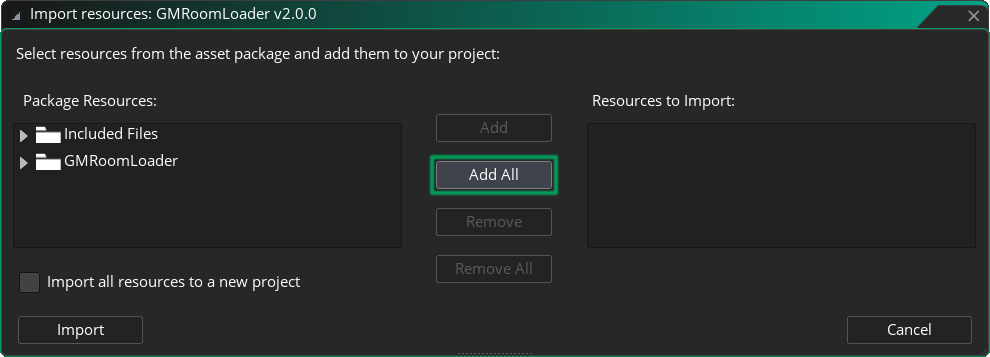
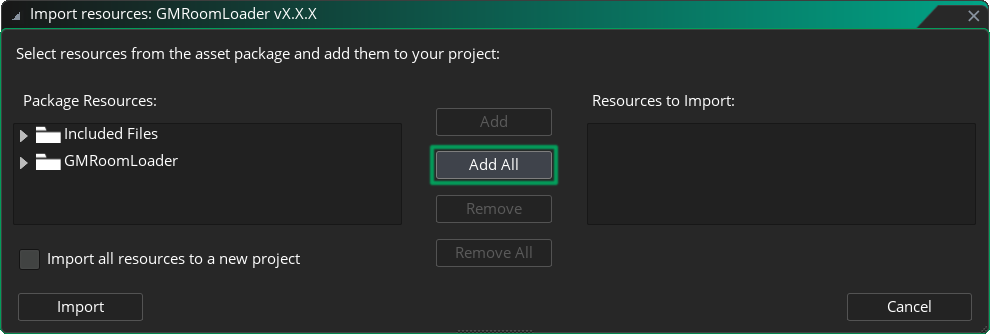
Docs/Getting Started: updated screenshots x2.

diff --git a/docs/pages/home/gettingStarted/gettingStarted.md b/docs/pages/home/gettingStarted/gettingStarted.md
@@ -13,7 +13,7 @@ We'll begin by importing the `.yymps` package. Then in the [First Setup](#first-
     * Structs, functions/methods and arguments, macros and enums.
 
 ## Installation
-1. Download the `.yymps` package from the latest [Release](https://github.com/glebtsereteli/GMRoomLoader/releases/v2.0.0).
+1. Download the `GMRoomLoader vX.X.X.yymps` package from the latest [Release](https://github.com/glebtsereteli/GMRoomLoader/releases/v2.0.0).
 2. Import the package into your project.
     * Navigate to __Tools__ in the top toolbar and click __Import Local Package__, or just drag and drop the file into GameMaker.
     ![alt text](import01.png)
